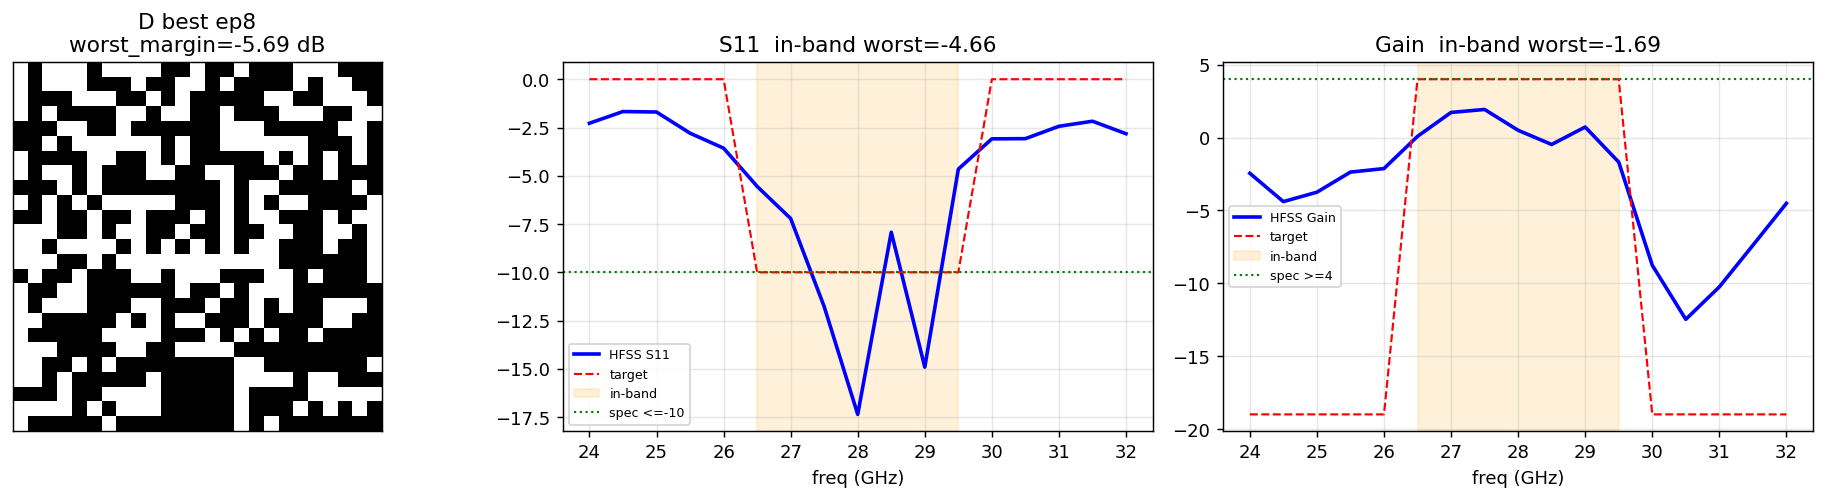
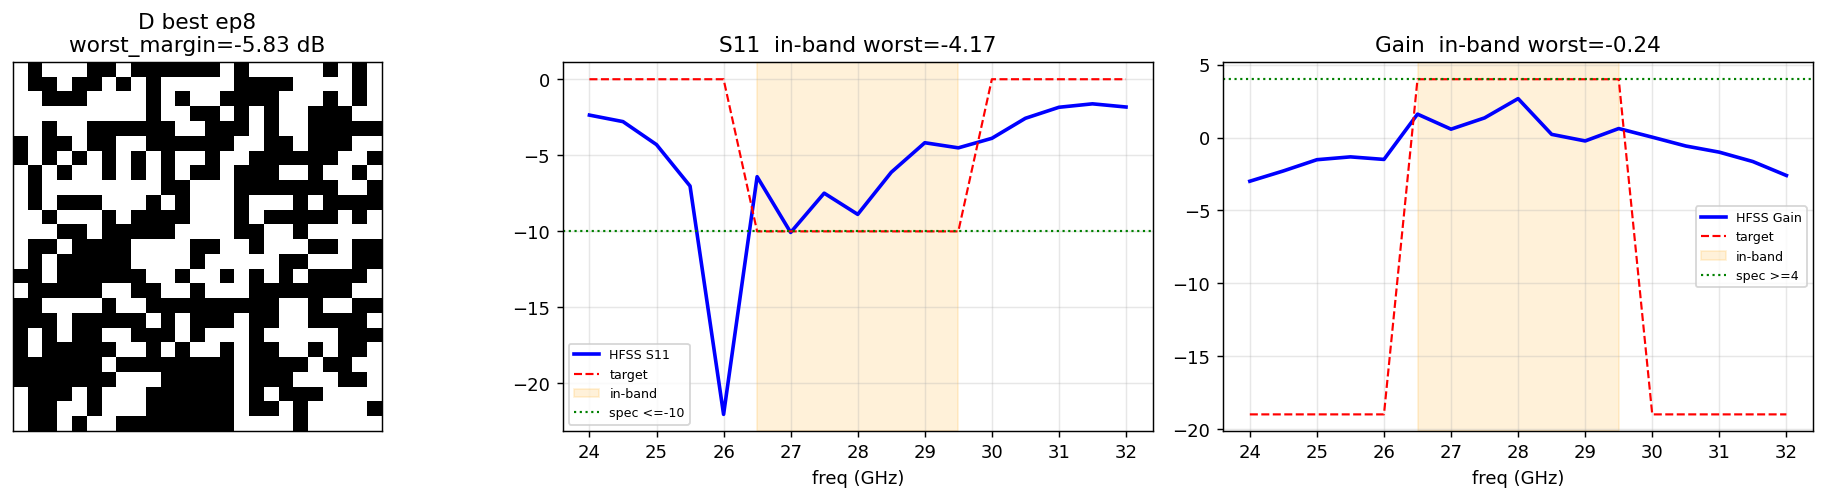
fix(script)+docs(log): _resolve_run 結尾優先 (修兩臂數字相同) + R4 歸檔 + R5 running
_resolve_run 子字串比對讓 single_rN_dip 同時命中 dip 與 dip_explore、被 mtime 挑走錯夾
→ R3/R4 報告 D 臂數字錯誤。修=結尾相符優先+回歸測試;R3 D 更正 -5.69→-5.83@8
(原「同 seed 同解」推論撤回)。R4 歸檔: E+D 破紀錄 -2.89@154 (+2.80 vs R3,探索躍遷);
主假設未驗證 (探測自鎖/欠訓/trust 全鎖),E/D 輸 R3 ~0.9dB → R5。R5 三臂 2026-07-03 已發。

Claude-Session: https://claude.ai/code/session_01FyqfkGWXdsiL6Wdg3nGM9c

diff --git a/tests/test_scripts.py b/tests/test_scripts.py
@@ -98,6 +98,24 @@ def test_run_curve_uses_hfss_calls_and_merges_cache_hits(tmp_path):
         _config.device = _dev                     # 該 script 匯入時把全域 device 設 cpu → 還原,不影響後續測試
 
 
+def test_resolve_run_prefers_exact_suffix(tmp_path, monkeypatch):
+    """回歸 (2026-07-03)：子字串比對讓 `x_dip` 同時命中 `x_dip` 與 `x_dip_explore`、再被 mtime 挑走
+    錯的夾 → R3/R4 歸檔兩臂數字相同。修法＝結尾相符優先。"""
+    from antenna.utils import config as _config
+    _dev = _config.device
+    try:
+        import script.benchmark_vs_random as bvr
+        rd = tmp_path / "result"
+        (rd / "[m-1] pixel_x_dip").mkdir(parents=True)
+        (rd / "[m-2] pixel_x_dip_explore").mkdir(parents=True)
+        (rd / "[m-2] pixel_x_dip_explore" / "newer.txt").write_text("x")   # 讓錯的夾 mtime 較新
+        monkeypatch.setattr(bvr, "ROOTDIR", tmp_path)
+        assert bvr._resolve_run("x_dip").name.endswith("pixel_x_dip")      # 不被較新的 dip_explore 搶走
+        assert bvr._resolve_run("x_dip_explore").name.endswith("pixel_x_dip_explore")
+    finally:
+        _config.device = _dev
+
+
 def test_run_curve_falls_back_to_epoch_for_old_runs(tmp_path):
     """舊 run 無 hfss_calls 欄 → 回退 epoch (行為與原樣相同)。"""
     from antenna.utils import config as _config

diff --git a/script/benchmark_vs_random.py b/script/benchmark_vs_random.py
@@ -38,12 +38,19 @@ def _margin(response, cfg):
 
 
 def _resolve_run(name_or_path):
-    """run 名 → 結果夾路徑：先試絕對/相對路徑；否則在 ROOTDIR/result 下找結尾相符的最新一個。"""
+    """run 名 → 結果夾路徑：先試絕對/相對路徑；否則在 ROOTDIR/result 下找**結尾相符**的最新一個
+    (結尾優先；都沒有才退回子字串)。
+
+    #! 結尾優先是硬需求：子字串比對會讓 `single_r4_dip` 同時命中 `…r4_dip` 與 `…r4_dip_explore`、
+    #  再被「最近活動」挑走錯的夾 → round 報告兩臂數字相同 (2026-07-03 R3/R4 歸檔實際踩到)。"""
     p = Path(name_or_path)
     if p.is_dir():
         return p
     rd = ROOTDIR.joinpath("result")
-    cands = [d for d in os.listdir(str(rd)) if name_or_path in d] if rd.is_dir() else []
+    all_dirs = os.listdir(str(rd)) if rd.is_dir() else []
+    cands = [d for d in all_dirs if d.endswith(name_or_path)]
+    if not cands:
+        cands = [d for d in all_dirs if name_or_path in d]
     if not cands:
         raise SystemExit(f"找不到 run：{name_or_path} (不是路徑、也不在 {rd} 下)")
     # 取最近活動的那個 (mtime 最大)

diff --git a/docs/log/round-04-adaptive-sm.md b/docs/log/round-04-adaptive-sm.md
@@ -1,9 +1,9 @@
 # Round 4 — 自適應 SM 訓練量（修 R3 的 SM 欠訓瓶頸）
 
-- 狀態: running
-- 提出 / 開跑 / 結論: 2026-07-02 / 2026-07-02 / —
+- 狀態: archived  <!-- 2026-07-03 提早停(E@208/D@222/E+D@201,未到 500)釋放機器給 Round 5 -->
+- 提出 / 開跑 / 結論: 2026-07-02 / 2026-07-02 / 2026-07-03
 - 一句話問題: 用「held-out 的 fresh HFSS 點」自調每輪 SM 重訓 epoch 數，能否修掉 R3 的「SM 欠訓 → trust 鎖死 → plateau」，讓 E/D/E+D factorial 終於乾淨？
-- 一句話結論: —（待跑）
+- 一句話結論: **E+D 破專案紀錄 -2.89@154**（探索躍遷、非 trust 利用）；但主假設未驗證——adaptive v1 探測自鎖在 3-5 epoch、SM 仍深度欠訓（fit_loss 8-11）、trust 全程鎖 0.05；E/D 皆輸 R3 同臂 ~0.9dB → **Round 5 滑動視窗**修探測結構
 - 指向: `configs/README.md`（single_r4_*）· 結果夾（待）· memory [[project_sm_training_redesign]] · `docs/discuss/decisions.md`「自適應 SM 訓練量」
 
 ## 1. 假設 (Propose)
@@ -31,27 +31,42 @@ factorial 續 R3（探索×DIP），唯一新變因＝三臂全把 `sm_train.mod
 ## 3. 執行紀錄 (Run)
 | 臂 | 機器（沿 R3 配置排除機器差異） | 狀態 / 進度 | 結果夾 |
 | — | — | — | — |
-| E | 216 | running（07-03 ~200ep） | `[Patch-single-216-…] pixel_single_r4_explore` |
-| D | 37（快） | running（07-03 ~215ep） | `[Patch-single-37-…] pixel_single_r4_dip` |
-| E+D | 218 | running（07-03 ~193ep，**-2.89@154 破紀錄**） | `[Patch-single-218-…] pixel_single_r4_dip_explore` |
+| E | 216 | 2026-07-03 停 @208 ep | `[Patch-single-216-b159bb] pixel_single_r4_explore` |
+| D | 37（快） | 2026-07-03 停 @222 ep | `[Patch-single-37-0b9ad8] pixel_single_r4_dip` |
+| E+D | 218 | 2026-07-03 停 @201 ep（**-2.89@154 破紀錄**） | `[Patch-single-218-…] pixel_single_r4_dip_explore` |
 - 事件 / 全域變更: 進 R4 前一批工程（Round4 準備）：新增追蹤訊號（flips/stall/sm_bias/wm_per-label/sm_train_epochs/probe_*/elite_n）；實作 opt-in 自適應-SM（golden 零漂移）。發前先跑 `python -m script.status` 掃機器真相。
 - 2026-07-02 發車前健檢：修控制器「低訓練量死鎖」（float target + 本輪觀測投票，模擬實證；沒修的話 R4 很可能默默退化回 dlf、整輪白跑）＋ `seed_target()` 斷點續跑續 target ＋ `elite_n` 成本訊號。詳見 `docs/discuss/decisions.md` 補記。
 - 2026-07-02 **更正**：三臂**從起跑即為修復版**（使用者發車時注意到修復尚未 push、手動把改動帶上正式機；證據＝csv 自首個 epoch 就有 `elite_n`，該欄與死鎖修復同 commit）。先前「舊碼起跑、E 臂死鎖前兆」為誤判——E 的 `sm_train_epochs` 8→3 下滑是修復版在「探測沒資訊」（`probe_min≈probe_max`、雜訊主導）時的**預期保守行為**（退向低訓練量≈dlf、可爬回），非死鎖。**觀察點**：若某臂長期釘在 epoch_min 且探測曲線持續平 → K=1 探測被雜訊淹沒＝真訊號，屆時再議加探測點/調 ema。
 - 2026-07-03 中檢（~200ep）：**E+D 破專案紀錄 -2.89@154**（勝 R3 全程 best +2.80；長停滯後單步躍遷＝探索撞到，非 trust 利用）；sigmoid 兩臂 sm_gap 穩降（線上累積生效）、E 臂 gap 反升（ping-pong 傷 SM）；三臂 trust 仍全鎖 0.05。**實錘深度欠訓**：每輪訓完 elite fit_loss 仍 7.7-10.6（學長壓 0.1）＋探測自鎖 target 3-5 → 催生 **Round 5 滑動視窗**（[round-05](round-05-window-sm.md)，待本輪收檔發）。
 
 ## 4. 分析 (Analyze)
-（待跑完 `python -m script.round_report --round 04 --runs … --labels E D E+D`）
+2026-07-03 產（`python -m script.round_report --round 04 --runs single_r4_explore single_r4_dip single_r4_dip_explore --labels E D E+D --at 201`；提早停 E@208/D@222/E+D@201，未到 500、釋放機器給 R5）：
+
+| 臂 | 最佳 worst_margin | 達到 epoch |
+|---|---|---|
+| E+D | **-2.89 dB**（專案史上最佳） | 154 |
+| E | -4.58 dB | 111 |
+| D | -6.75 dB | 61 |
+
+- **cross-round vs R3 同臂（同 epoch 預算）**：E+D **+2.80**（-2.89 vs -5.69）／E **-0.94**（-4.58 vs -3.63@89）／D **-0.92**（-6.75 vs -5.83）。
+- E+D 的躍遷形狀：-7.60@76 → -7.29@135 → -7.13@153 → **-2.89@154**（長停滯後單步 +4.24dB＝探索撞進質變區）；發生時 trust_t 仍鎖 0.05 → **是探索的功勞，不是 trust 利用**。
+- **訊號總結**（詳見 §3 各中檢）：三臂 trust 全程鎖 0.05（gap 6.5–9 遠高於門檻）；每輪訓完 elite fit_loss 仍 7.7–10.6（**深度欠訓**）；adaptive 探測自鎖 target 3–5、曲線 80–100% 平坦；E 臂 sm_gap 反升 3→9（兩群 ping-pong、SM 對搜尋區越來越盲）；D 臂 SM 指標三臂最佳（gap 穩降至 6.5、bias 4.6）卻 stall 154——**SM 變好 ≠ 找到更好解**。
+- 圖：`assets/round-04/E_best.png` · `D_best.png` · `E+D_best.png` · `benchmark.png`（無 random 線，`harvest_single_random` 仍 0 筆）。
 
 ## 5. 結論 (Conclude)
-（待）
+- **主假設未驗證**：「自適應訓練量 → SM 可信 → trust 升 → 利用」這條鏈沒走通——根因是 adaptive v1 只探測「目前訓練量以下」的範圍（結構性自鎖），訓練量從沒真的提上去，SM 始終欠訓。
+- **但 R4 不是白跑**：① E+D 破專案紀錄 -2.89（勝 R3 同臂 +2.80）——adaptive 臂的探索比 R3 dlf 更有生產力；② 拿到「深度欠訓」與「探測自鎖」兩個實錘診斷（fit_loss 8-11、target 3-5、曲線平），直接催生 R5 設計；③ 兩機制包的副作用現形——拿掉 train_one_data 後 direct 臂（E）出現兩群 ping-pong、sm_gap 反升（見 §2 歸因注意＋scratch「ping-pong」塊）。
+- **sigmoid 臂的線上累積有效**（gap 穩降）＝學長「線上學習要等」成立；direct 臂相反（ping-pong 傷資料品質）。
+- **學到什麼**：訓練量問題要「探測永遠看得到上方」才解得掉 → Round 5 滑動視窗（訓到視窗頂、argmin 區位滑動）。
 
 ## 6. 後續決策 (Next)
-- 若自適應有效：考慮把探測 range 自動外擴（argmin 貼 epoch_max 時）、與 TrustController 共用 gap EMA。
-- 若無效：回頭檢查是否 elite 篩選/探測範圍問題，或瓶頸另有其處。
+- → **Round 5 滑動視窗**（[round-05](round-05-window-sm.md)）：訓到視窗頂（探測永遠涵蓋上緣、無自鎖）、argmin 落上二階×2／最低階÷2、上限 1024、ensemble 5→3。2026-07-03 已發。
+- E 臂 ping-pong → 「選擇端 known-bad 鄰域懲罰」候選續掛 ONGOING（觸發條件不變）。
+- E+D 的 -2.89 紀錄 pattern 已安全存 `patterns/`；R5 E+D 看能否把「撞到」變「開採」。
 
 ## 7. 歸檔指向 (Archive)
 - configs/README 列: `single_r4_explore` / `single_r4_dip` / `single_r4_dip_explore`
-- 結果夾: （待）
+- 結果夾: 見 §3 表；圖: `assets/round-04/`；紀錄解 pattern 在 E+D 結果夾 `patterns/`
 - memory: [[project_sm_training_redesign]] · [[project_discussion_memory]]
-- 設計文件: `docs/discuss/decisions.md`「自適應 SM 訓練量」
-- ONGOING 動作: 跑完把 Round 4 移出 🔵、✅ 區留一行指標
+- 設計文件: `docs/discuss/decisions.md`「自適應 SM 訓練量」＋「滑動視窗」
+- 接棒: [round-05](round-05-window-sm.md)（2026-07-03 已發）

diff --git a/configs/ONGOING.md b/configs/ONGOING.md
@@ -13,17 +13,7 @@
 
 ## 🔵 進行中 / 待跑
 
-### Round 4 — 自適應 SM 訓練量（factorial，🔵 **proposed**，2026-07-02）→ 詳見 [docs/log/round-04](../docs/log/round-04-adaptive-sm.md)
-| 臂 | config | = R3 同臂改什麼 | 隔離 |
-|---|---|---|---|
-| E 探索 | `single_r4_explore` | `mode: dlf→adaptive` | 自適應 SM 訓練量 |
-| D DIP | `single_r4_dip` | `mode: dlf→adaptive` | 同上（sigmoid 臂） |
-| E+D | `single_r4_dip_explore` | `mode: dlf→adaptive` | 同上（sigmoid+lr↑） |
-- **由來**：R3 健檢定位共同瓶頸＝SM 欠訓（dlf 每輪 1 epoch → trust 鎖 0.05 不利用 → plateau）。R4 三臂全上**自適應訓練量**（held-out fresh 點量泛化、自調每輪 elite 重訓 epoch 數，沿途快照 member0、下一輪新點評 argmin；opt-in `mode:adaptive`、golden 零漂移）→ 移除 confound、修瓶頸。adaptive 旋鈕：`snapshots 5/epoch_min 1/epoch_max 32/ema 0.3`，ensemble 保持 5。
-- **判準**：worst_margin（真目標）+ trust_t 升離 0.05 + sm_bias 降；cross-round 比 R3 同臂。**發前先跑 `python -m script.status`**、各 500 epoch。⚠ 每輪 SM 重訓量比 dlf 大，正式機量 SM 佔 HFSS 比例。
-- **狀態**：**running**（2026-07-02 發：E@216、D@37、E+D@218；07-03 ~200ep）。**07-03 中檢**：E+D **破專案紀錄 -2.89@154**（探索撞到、非 trust 利用）；但實錘深度欠訓（fit_loss 仍 8-11）＋探測自鎖（target 3-5）→ 催生 Round 5。跑到 500 收檔。
-
-### Round 5 — 滑動視窗 SM 訓練量（🔵 **proposed**，2026-07-03，**待 R4 收檔發**）→ 詳見 [docs/log/round-05](../docs/log/round-05-window-sm.md)
+### Round 5 — 滑動視窗 SM 訓練量（🔵 **running**，2026-07-03 發）→ 詳見 [docs/log/round-05](../docs/log/round-05-window-sm.md)
 | 臂 | config | = R4 同臂改什麼 | 隔離 |
 |---|---|---|---|
 | E | `single_r5_explore` | `mode: adaptive→adaptive_window` + ensemble 5→3 | 滑動視窗訓練量（⚠兩變更） |
@@ -31,7 +21,7 @@
 | E+D | `single_r5_dip_explore` | 同上 | 同上（紀錄臂：看「撞到」能否變「開採」） |
 - **由來**：R4 實錘兩件事——深度欠訓（每輪訓完 elite fit_loss 仍 7.7-10.6，學長壓 0.1）＋ adaptive 探測自鎖（target 停 3-5、曲線 80-100% 平）。**滑動視窗（Ricky 設計）**：每輪訓到視窗頂 hi、log2 階梯快照、argmin **落「上二階」**（不必貼頂——最佳點上方保留兩階冗餘）連 3 次→hi×2／落最低一階→hi÷2；起點 64、**上限 1024**（爬到頂≈學長「破千」量級）、下限 8；`replay_size 512`、`ensemble 3`（省成本）。工程完成（`mode: adaptive_window`、golden 零漂移）。
 - **判準（分層）**：① fit_loss 壓到 ~1-3 → ② sm_gap/sm_bias 降、trust_t 升 → ③ worst_margin vs R4 同臂。⚠ 視窗爬到頂＝數十萬步/輪，**正式機務必盯 `time` 欄**看 SM 佔比；失控把天花板降回 256/512（一行 config）。
-- **發車**：R4 到 500 收檔 → `python -m script.status` 確認 → 正式機 `git pull` → `python train.py configs/single_r5_<E/D/E+D>.yaml`（機器沿用）。
+- **狀態**：**2026-07-03 發**（E@216、D@37、E+D@218，config 快照已驗證新版；R4 三臂已停）。各 500 epoch。
 
 ---
 
@@ -54,6 +44,7 @@
 
 ## ✅ 已歸檔（一行指標，完整結論在 round 檔）
 
+- **Round 04 — 自適應 SM 訓練量** → [docs/log/round-04](../docs/log/round-04-adaptive-sm.md)：**E+D 破專案紀錄 -2.89@154**（探索躍遷,+2.80 vs R3）；主假設未驗證（探測自鎖 3-5ep、fit_loss 仍 8-11、trust 全鎖;E/D 輸 R3 ~0.9dB）→ R5 滑動視窗。2026-07-03 停（E@208/D@222/E+D@201）。圖 `docs/log/assets/round-04/`。
 - **Round 03 — 探索 × DIP factorial** → [docs/log/round-03](../docs/log/round-03-explore-dip.md)：**E(lr↑)最佳 -3.63@89（¼ epoch 追平②）**;DIP 連通成功(r_feed~0.95)但停滯(best@8);三臂被 SM 欠訓汙染、factorial 不乾淨 → R4 修瓶頸重跑。2026-07-02 停(E@189/D@101/E+D@132)。圖 `docs/log/assets/round-03/`。
 - **Round 01 — SM 訓練量 A/B** → [docs/log/round-01](../docs/log/round-01-sm-training-ab.md)：**訓練量非 bottleneck**(dlf −4.18≈refit −4.21 > dlf_fit −5.58、皆差 spec ~4dB)。圖 `docs/log/assets/round-01/`。
 - **Round 02 — ensemble + trust 治本** → [docs/log/round-02](../docs/log/round-02-ensemble-trust.md)：**治本微幅、未決定性**(②③ trust 微贏 Round-1 ~0.3-0.5dB、① ens-only 輸、皆未收斂;trust_t 卡低)。2026-07-01 提早停(未到 500)釋放機器給 Round 3;② ~417ep 當 Round-3 reference。

diff --git a/docs/log/README.md b/docs/log/README.md
@@ -16,8 +16,8 @@
 | 01 | SM 訓練量 A/B(dlf/dlf_fit/refit) | ✅ archived | **訓練量非 bottleneck**;dlf≈refit>dlf_fit、皆差 spec ~4dB、未收斂 | [round-01](round-01-sm-training-ab.md) |
 | 02 | ensemble + trust(文獻治本) | ✅ archived(2026-07-01 停,②~417ep) | **治本微幅、未決定性**(②③微贏~0.3-0.5dB、①輸、皆未收斂;trust_t 卡低) | [round-02](round-02-ensemble-trust.md) |
 | 03 | 探索 × DIP（factorial E/D/E+D） | ✅ archived（2026-07-02 停,E@189/D@101/E+D@132） | **E(lr↑)最佳 -3.63@89（¼ epoch 追平②）**;DIP 連通成功但停滯;三臂被 SM 欠訓汙染 → R4 修瓶頸重跑 | [round-03](round-03-explore-dip.md) |
-| 04 | 自適應 SM 訓練量（修 R3 SM 欠訓瓶頸） | 🔵 running（2026-07-02 發） | 中檢：E+D 破紀錄 -2.89@154；但 fit_loss 仍 8-11＝深度欠訓、探測自鎖 target 3-5（→ Round 5） | [round-04](round-04-adaptive-sm.md) |
-| 05 | 滑動視窗 SM 訓練量（修 R4 欠訓+探測自鎖） | 🔵 proposed（2026-07-03，待 R4 收檔發） | — | [round-05](round-05-window-sm.md) |
+| 04 | 自適應 SM 訓練量（修 R3 SM 欠訓瓶頸） | ✅ archived（2026-07-03 停,E@208/D@222/E+D@201） | **E+D 破紀錄 -2.89@154**（探索躍遷,+2.80 vs R3）；但主假設未驗證——探測自鎖 3-5ep、fit_loss 仍 8-11、trust 全鎖；E/D 輸 R3 ~0.9dB → R5 | [round-04](round-04-adaptive-sm.md) |
+| 05 | 滑動視窗 SM 訓練量（修 R4 欠訓+探測自鎖） | 🔵 running（2026-07-03 發） | — | [round-05](round-05-window-sm.md) |
 
 ## 研究脈絡（一句話串起來）
 generator G = 單 pattern 超特徵 → 轉 **generator-free SM-guided 搜尋**(輸 random)→ **Round 1** 測「是不是 SM 訓練不足」→ **否**(訓飽反而過擬合)→ 病灶是 SM-guided 搜尋本身 → **Round 2** 上文獻治本(ensemble + trust)→ 治本微幅未決定性、且實測搜尋「凍住」(每 epoch 才翻 ~6 像素)→ **Round 3** factorial 測「探索(lr↑)× DIP(generator 帶回來連通先驗)」的效果與加乘 → 健檢發現三臂共同瓶頸＝**SM 欠訓**(dlf 每輪只訓 1 epoch → 樂觀、trust 鎖 0.05 不利用) → **Round 4** 上**自適應 SM 訓練量**(held-out fresh 點自調每輪重訓 epoch 數)修這個瓶頸、重跑 E/D/E+D 去 confound → 中檢:E+D **破紀錄 -2.89**(探索撞到)但實錘**深度欠訓**(fit_loss 仍 8-11)+探測自鎖(target 3-5) → **Round 5** 上**滑動視窗訓練量**(訓到視窗頂+argmin 貼邊 ×2/÷2,Ricky 設計)把 SM 真的訓起來。

diff --git a/docs/log/round-05-window-sm.md b/docs/log/round-05-window-sm.md
@@ -1,7 +1,7 @@
 # Round 5 — 滑動視窗 SM 訓練量（修 R4 的欠訓 + 探測自鎖）
 
-- 狀態: proposed
-- 提出 / 開跑 / 結論: 2026-07-03 / — / —
+- 狀態: running
+- 提出 / 開跑 / 結論: 2026-07-03 / 2026-07-03 / —
 - 一句話問題: 把每輪 SM 訓練量從「自鎖在 3–5 epoch」提到「滑動視窗自動找的量級（起點 64、上限 1024）」，能否把 fit_loss 從 ~8–11 壓進 ~1–3 的中間帶、讓 sm_gap/sm_bias 降、trust 進入利用？
 - 一句話結論: —（待跑）
 - 指向: `configs/README.md`（single_r5_*）· 對照 = R4 同臂（[round-04](round-04-adaptive-sm.md)）· `docs/discuss/decisions.md`「滑動視窗」· memory [[project_sm_training_redesign]]
@@ -28,12 +28,13 @@
 - **HFSS 預算**: 各 500 epoch；機器沿用 E@216 / D@37 / E+D@218。
 
 ## 3. 執行紀錄 (Run)
-| 臂 | 機器（計畫） | 狀態 / 進度 | 結果夾 |
+| 臂 | 機器 | 狀態 / 進度 | 結果夾 |
 | — | — | — | — |
-| E | 216 | proposed（待 R4 收檔） | — |
-| D | 37 | proposed（待 R4 收檔） | — |
-| E+D | 218 | proposed（待 R4 收檔） | — |
-- 事件: 2026-07-03 實作 `adaptive_window`（controller + 接線 + 測試，golden 零漂移）；config ready。**發車前**: `python -m script.status` 確認 R4 已停、正式機 `git pull`。
+| E | 216 | running（2026-07-03 發） | `[Patch-single-216-43e98b] pixel_single_r5_explore` |
+| D | 37 | running（2026-07-03 發） | `[Patch-single-37-69f1d3] pixel_single_r5_dip` |
+| E+D | 218 | running（2026-07-03 發） | `[Patch-single-218-b817c3] pixel_single_r5_dip_explore` |
+- 事件: 2026-07-03 實作 `adaptive_window`（controller + 接線 + 測試，golden 零漂移）→ 同日修正滑動規則為**區位制**（argmin 落上二階即 ×2，不必貼頂——保留冗餘）、上限 256→1024、ensemble 5→3 → **同日發車**（三臂 config 快照已驗證為新版）。
+- 事件: 2026-07-03 修 `_resolve_run` 子字串 bug（round 報告兩臂數字相同的元凶；R3 D 數字已更正）。
 
 ## 4. 分析 (Analyze)
 （待跑完 `python -m script.round_report --round 05 --runs single_r5_explore single_r5_dip single_r5_dip_explore --labels E D E+D`）

diff --git a/docs/log/round-03-explore-dip.md b/docs/log/round-03-explore-dip.md
@@ -42,12 +42,12 @@
 | 臂 | 最佳 worst_margin | 達到 epoch |
 |---|---|---|
 | E | -3.63 dB | 89 |
-| D | -5.69 dB | 8 |
 | E+D | -5.69 dB | 8 |
+| D | -5.83 dB | 8 |
 
 - 對照 reference ②（R2：dlf+ensemble+trust、direct、lr 0.005）最佳 **-3.87 dB@430ep** → **E 用不到 ¼ 的 epoch 追平並小勝**（+0.24 dB）→ 解凍（lr↑）是真實有效的旋鈕。
-- D 與 E+D **同 seed、sigmoid 早期軌跡相同** → best 都在 ep8（同一顆早期解），之後 90+/120+ epoch 再沒刷新 = 幾乎沒有效搜尋。
-- 附註：status 的 wm 欄給 D -5.83、round_report 掃 pattern 重算 -5.69（0.14 dB 小差）；歸檔以 round_report 為準。
+- D 與 E+D best 都停在 ep8（各自的早期解 -5.83／-5.69），之後 90+/120+ epoch 再沒刷新 = 幾乎沒有效搜尋。
+- **2026-07-03 更正**：原表 D 誤記 -5.69（`_resolve_run` 子字串 bug——`single_r3_dip` 被解析到 `…dip_explore` 資料夾、兩臂數字相同）；修復後 D 真值 **-5.83@8**（與 status 的 wm 欄一致，原「0.14 dB 小差」註腳即此 bug）。原「D/E+D 同 seed 同一顆解」推論一併撤回——兩臂只是同樣早停，非同一解。圖已重產。
 - random best-of-N 對照仍缺：`harvest_single_random` 資料夾存在但 **0 筆**（round-01 至今未收）→ benchmark 圖無 random 線。
 - 圖：`assets/round-03/E_best.png` · `D_best.png` · `E+D_best.png` · `benchmark.png`。
 
